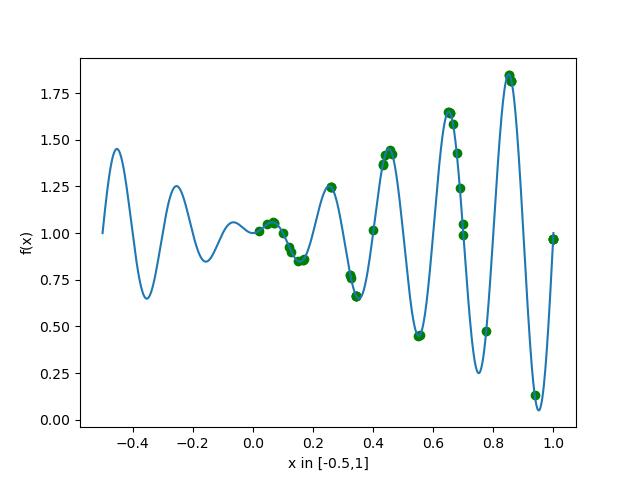
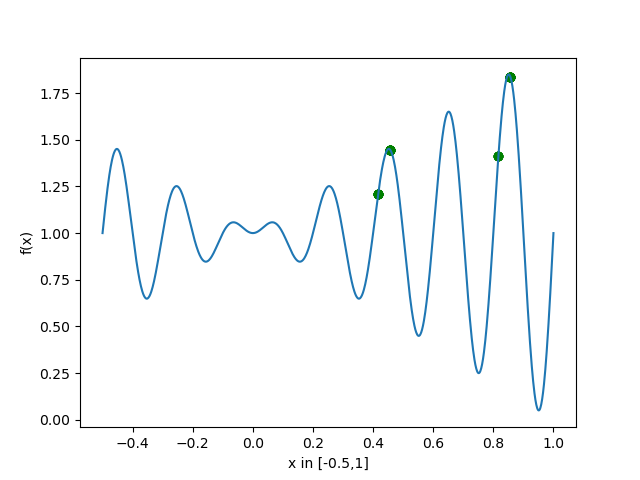
add sharing method

diff --git a/MiniProject4/multimodal.py b/MiniProject4/multimodal.py
@@ -13,7 +13,7 @@ def handle_constrains(x):
 
 
 def gen_init_pop(M):
-    X = np.random.uniform(low=-0.5, high=1.0, size=(M))
+    X = np.random.uniform(low=0.0, high=1.0, size=(M))
     return X
 
 
@@ -40,13 +40,18 @@ def get_fitness(X):
 
 
 def selection(fitness, pop):
-    fitness = np.array([(x - min(fitness)) / (max(fitness) - min(fitness)) for x in fitness])
+    # fitness = np.array([(x - min(fitness)) / (max(fitness) - min(fitness)) for x in fitness])
     pop_fitness = np.sum(fitness)
     individual_probabilities = np.array([fitness[i] / pop_fitness for i in range(len(fitness))])
     a = np.arange(len(pop))
-
-    s = np.random.choice(a, p=individual_probabilities)
-    return pop[s]
+    try:
+        s = np.random.choice(a, p=individual_probabilities)
+        return pop[s]
+    except Exception as e:
+        print(e)
+        print(pop_fitness)
+        print(fitness)
+        return pop[0]
 
 
 def crossover(parent1, parent2, cross_prob):
@@ -160,4 +165,4 @@ def genetic_algo(M, R, max_gen=None, cross_prob=None, mut_prob=None, niching="wi
 
 if __name__ == "__main__":
     for n in ["sharing", "clustering", "without_niching"]:
-        genetic_algo(50, 20, max_gen=400, cross_prob=0.0, mut_prob=0.0, niching=n)
+        genetic_algo(50, 20, max_gen=400, cross_prob=0.5, mut_prob=0.0, niching=n)
